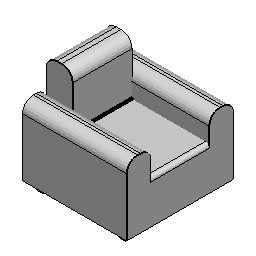
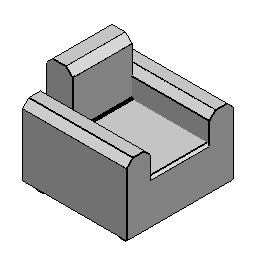
Make "Rebuild all parts" mean the document, and keep thumbnails fresh
Two things the last change got wrong, both reported from use.

The bulk rebuild narrowed to the selection when there was one - and the
context-menu entry that calls it is reached by right-clicking a part, which
selects it. So "Rebuild all parts from library" rebuilt exactly the part
you clicked and quietly skipped the other eighteen. It is now
document-wide, full stop; F7 pins that a selection does NOT narrow it.

The grid kept showing old snapshots because a thumbnail that exists is
never re-rendered, and the committed JPEGs were pictures of the filleted
geometry. ensure_thumbnail now re-renders when the part's own files OR the
shared easing helpers (shapes.py, _shared.py) are newer than the image -
that change is invisible per part, which is why the staleness check has to
reach outside the part folder. A stale image that will not re-render keeps
being shown rather than emptying the card, with the failure remembered for
the session.

The 31 committed thumbnails are regenerated with the chamfered geometry
(28 changed, 6s of rendering, verified against the old ones: same design,
eased edges instead of rounds). They are now newer than the sources, so
nothing re-renders on first open.

Also: the staleness test injects the shared helper's path instead of
touching a real file's mtime, so running the suite cannot disturb the
library's own freshness.

pytest 533 passed (7 new); harness 192 PASS, 0 failures.

Changed region(s): [[0.1875, 0.0938, 0.9062, 0.5], [0.0938, 0.3438, 0.5625, 0.6875], [0.5938, 0.5312, 0.8125, 0.7188]]

diff --git a/archplus/tools/partslib/tests/test_partslib_thumbs.py b/archplus/tools/partslib/tests/test_partslib_thumbs.py
@@ -189,3 +189,99 @@ def test_a_part_with_no_committed_thumbnail_falls_back_to_rendering():
                            thumbnail_usable=False)
     assert plan == {"build": True, "measure": False, "render": True,
                     "use_thumbnail": False}
+
+
+# --- thumbnail freshness ---------------------------------------------------
+#
+# A committed thumbnail is never re-rendered once it exists, so without a
+# freshness check the grid keeps showing a shape the library no longer builds
+# (the case that prompted this: eased edges became chamfers, and every card
+# still showed filleted parts).
+
+
+def _part_dir(tmp_path, thumbnail_age=0.0, builder_age=0.0):
+    import os
+    part_dir = tmp_path / "part"
+    part_dir.mkdir()
+    (part_dir / "part.json").write_text("{}", encoding="utf-8")
+    (part_dir / "builder.py").write_text("def build(*a): pass",
+                                         encoding="utf-8")
+    thumb = pt.thumbnail_path(str(part_dir))
+    open(thumb, "w").close()
+    now = __import__("time").time()
+    os.utime(thumb, (now - thumbnail_age, now - thumbnail_age))
+    os.utime(str(part_dir / "builder.py"),
+             (now - builder_age, now - builder_age))
+    return str(part_dir), thumb
+
+
+def test_a_thumbnail_newer_than_its_builder_is_fresh(tmp_path):
+    part_dir, thumb = _part_dir(tmp_path, thumbnail_age=0.0, builder_age=60.0)
+    assert pt.thumbnail_is_stale(part_dir, thumb) is False
+
+
+def test_a_thumbnail_older_than_its_builder_is_stale(tmp_path):
+    part_dir, thumb = _part_dir(tmp_path, thumbnail_age=600.0, builder_age=60.0)
+    assert pt.thumbnail_is_stale(part_dir, thumb) is True
+
+
+def test_a_thumbnail_older_than_the_shared_easing_helpers_is_stale(tmp_path, monkeypatch):
+    # The case that bit: nothing in the part's own folder changed, but
+    # shapes.py did, and every part's geometry moved with it. The shared
+    # helper's mtime is injected rather than touched on disk, so running the
+    # suite cannot disturb the real library's freshness.
+    import os
+    import time
+    part_dir, thumb = _part_dir(tmp_path, thumbnail_age=0.0, builder_age=0.0)
+    shared = tmp_path / "shapes.py"
+    shared.write_text("", encoding="utf-8")
+    now = time.time()
+    os.utime(str(shared), (now - 600.0, now - 600.0))
+    sources = tuple(pt._geometry_sources(part_dir)) + (str(shared),)
+    monkeypatch.setattr(pt, "_geometry_sources", lambda d: sources)
+    assert pt.thumbnail_is_stale(part_dir, thumb) is False
+    os.utime(str(shared), (now + 60.0, now + 60.0))
+    assert pt.thumbnail_is_stale(part_dir, thumb) is True
+
+
+def test_a_missing_thumbnail_is_not_stale(tmp_path):
+    # Missing is ensure_thumbnail's own case; reporting it as stale too would
+    # put two pieces of code on one decision.
+    part_dir, thumb = _part_dir(tmp_path, thumbnail_age=0.0, builder_age=0.0)
+    import os
+    os.remove(thumb)
+    assert pt.thumbnail_is_stale(part_dir, thumb) is False
+
+
+def test_a_stale_thumbnail_that_cannot_render_keeps_being_shown(tmp_path, monkeypatch):
+    # An out-of-date picture beats an empty card: re-rendering a stale
+    # thumbnail must not turn a present image into no image, on machines
+    # where offscreen rendering is unavailable.
+    part_dir, thumb = _part_dir(tmp_path, thumbnail_age=600.0, builder_age=60.0)
+    entry = {"id": "stale", "dir": part_dir}
+    resolved = {"geometry": {}, "params": {}}
+    monkeypatch.setattr(pg, "build_shape", lambda *a, **k: object())
+    monkeypatch.setattr(pt, "render_shape", lambda *a, **k: False)
+    assert pt.ensure_thumbnail(entry, resolved) == thumb
+    assert pt.render_failed_before(thumb) is True
+
+
+def test_a_stale_thumbnail_is_re_rendered(tmp_path, monkeypatch):
+    part_dir, thumb = _part_dir(tmp_path, thumbnail_age=600.0, builder_age=60.0)
+    entry = {"id": "stale", "dir": part_dir}
+    resolved = {"geometry": {}, "params": {}}
+    monkeypatch.setattr(pg, "build_shape", lambda *a, **k: object())
+    monkeypatch.setattr(pt, "render_shape", lambda shape, path, **k: True)
+    assert pt.ensure_thumbnail(entry, resolved) == thumb
+
+
+def test_a_fresh_thumbnail_is_returned_without_building(tmp_path, monkeypatch):
+    part_dir, thumb = _part_dir(tmp_path, thumbnail_age=0.0, builder_age=600.0)
+    entry = {"id": "fresh", "dir": part_dir}
+    resolved = {"geometry": {}, "params": {}}
+
+    def _must_not_run(*a, **k):
+        raise AssertionError("a fresh thumbnail must not rebuild the part")
+
+    monkeypatch.setattr(pg, "build_shape", _must_not_run)
+    assert pt.ensure_thumbnail(entry, resolved) == thumb

diff --git a/archplus/tools/partslib/thumbs.py b/archplus/tools/partslib/thumbs.py
@@ -187,6 +187,47 @@ def thumbnail_path(part_dir):
     return os.path.join(part_dir, THUMBNAIL_FILENAME)
 
 
+def _geometry_sources(part_dir):
+    """The files whose change can change a part's built geometry.
+
+    The part's own folder, plus the two shared modules every builder eases
+    its edges through: a change there (the chamfer that replaced fillets, say)
+    re-shapes every part at once, and no part folder records that."""
+    here = os.path.dirname(os.path.abspath(__file__))
+    return (os.path.join(part_dir, "builder.py"),
+            os.path.join(part_dir, "part.json"),
+            os.path.join(here, "shapes.py"),
+            os.path.join(here, "library", "basic", "_shared.py"))
+
+
+def newest_geometry_source(part_dir):
+    """mtime of the newest file that decides this part's geometry, or None."""
+    stamps = []
+    for src in _geometry_sources(part_dir):
+        try:
+            stamps.append(os.path.getmtime(src))
+        except OSError:
+            continue
+    return max(stamps) if stamps else None
+
+
+def thumbnail_is_stale(part_dir, path=None):
+    """True when the part's geometry sources are newer than its thumbnail.
+
+    A committed thumbnail is a picture of the geometry the library produced
+    when it was rendered. Since a thumbnail that exists is otherwise never
+    re-rendered, a change to a builder - or to the shared easing helpers, as
+    when eased edges became chamfers - would keep every card showing a shape
+    the library no longer builds."""
+    path = path or thumbnail_path(part_dir)
+    try:
+        stamp = os.path.getmtime(path)
+    except OSError:
+        return False          # missing file: that is ensure_thumbnail's job
+    newest = newest_geometry_source(part_dir)
+    return newest is not None and newest > stamp
+
+
 def preview_plan(pristine, has_derived_fields, thumbnail_usable):
     """What a detail-pane refresh actually has to do.
 
@@ -417,19 +458,25 @@ def render_shape(shape, out_path, size=THUMBNAIL_SIZE, timer=None):
 
 
 def ensure_thumbnail(entry, resolved):
-    """Path to the part's thumbnail, rendering one if it is missing.
+    """Path to the part's thumbnail, rendering one when it is missing or
+    shows geometry the library no longer builds.
 
     Checks the session failure cache BEFORE building anything: the build
-    step (real Part booleans/fillets) is exactly the expensive half of this,
-    so a part already known to fail must skip it entirely, not just skip
-    the render call."""
+    step (real Part booleans and eased edges) is exactly the expensive half
+    of this, so a part already known to fail must skip it entirely, not just
+    skip the render call.
+
+    A stale thumbnail that will not re-render keeps being shown: an out-of-
+    date picture of the part beats an empty card, and the failure is
+    remembered so the attempt is not repeated all session."""
     from . import geometry as partslib_geometry
 
     path = thumbnail_path(entry["dir"])
-    if os.path.exists(path):
+    exists = os.path.exists(path)
+    if exists and not thumbnail_is_stale(entry["dir"], path):
         return path
     if render_failed_before(path):
-        return None
+        return path if exists else None
 
     timer = Timer("first thumbnail for %r" % (entry["id"],))
     try:
@@ -438,7 +485,7 @@ def ensure_thumbnail(entry, resolved):
         mark_render_failed(path, (
             "ArchPlus: cannot build %r for a thumbnail; will not retry "
             "this session: %s\n" % (entry["id"], exc)))
-        return None
+        return path if exists else None
     timer.mark("build")
 
     rendered = render_shape(shape, path, timer=timer)
@@ -448,4 +495,4 @@ def ensure_thumbnail(entry, resolved):
     mark_render_failed(path, (
         "ArchPlus: cannot render a thumbnail for %r; will not retry this "
         "session\n" % (entry["id"],)))
-    return None
+    return path if exists else None

diff --git a/archplus/tools/partslib/gui.py b/archplus/tools/partslib/gui.py
@@ -1530,12 +1530,11 @@ def editPart(obj):
 def rebuildPlacedParts():
     """Rebuild every placed library part in the active document.
 
-    One document-wide action instead of a right-click per part: after the
-    library's geometry changes, this is what catches an existing file up. It
-    rebuilds from each object's own Parameter values - the parts keep their
-    dimensions - where "Reload from library" reseeds those from the manifest.
-    With library parts selected, only those are rebuilt. Returns the number
-    rebuilt, or 0 when there was nothing to do."""
+    Document-wide, and deliberately ignoring the selection: the context-menu
+    entry that calls this is reached by right-clicking a part, which selects
+    it, so a "selected parts only" reading of the same entry would rebuild
+    the one part you clicked and quietly skip the other eighteen. Returns the
+    number rebuilt, or 0 when there was nothing to do."""
     from . import object as partslib_object
 
     doc = FreeCAD.ActiveDocument
@@ -1543,9 +1542,7 @@ def rebuildPlacedParts():
         FreeCAD.Console.PrintError(
             "ArchPlus: no active document to rebuild parts in\n")
         return 0
-    selected = partslib_object.libraryPartsIn(
-        FreeCADGui.Selection.getSelection())
-    targets = selected or partslib_object.libraryPartsIn(doc.Objects)
+    targets = partslib_object.libraryPartsIn(doc.Objects)
     if not targets:
         FreeCAD.Console.PrintMessage(
             "ArchPlus: no placed library parts in this document\n")

diff --git a/archplus/freecad_tests/verify_reload.py b/archplus/freecad_tests/verify_reload.py
@@ -220,7 +220,10 @@ def _rebuild_all_checks():
             detail="rebuilt=%r box faces %d/%d"
             % (rebuilt, len(box.Shape.Faces), box_faces))
 
-    # selecting parts narrows it to those
+    # A selection must NOT narrow it: the context-menu entry is reached by
+    # right-clicking a part, which selects that part, so a selection-scoped
+    # reading would rebuild the one you clicked and skip the rest - the bug
+    # this check exists for.
     rebuilt.clear()
     FreeCADGui.Selection.addSelection(doc.Name, chest.Name)
     partslib_object._LibraryPart.execute = counting_execute
@@ -230,6 +233,6 @@ def _rebuild_all_checks():
     finally:
         partslib_object._LibraryPart.execute = original
         FreeCADGui.Selection.clearSelection()
-    h.check("F7 a selection narrows the rebuild to the selected parts",
-            rebuilt == [chest.Name],
-            detail="rebuilt=%r" % (rebuilt,))
+    h.check("F7 a selection does not narrow the document-wide rebuild",
+            rebuilt == [bed.Name, chest.Name],
+            detail="rebuilt=%r with one part selected" % (rebuilt,))
